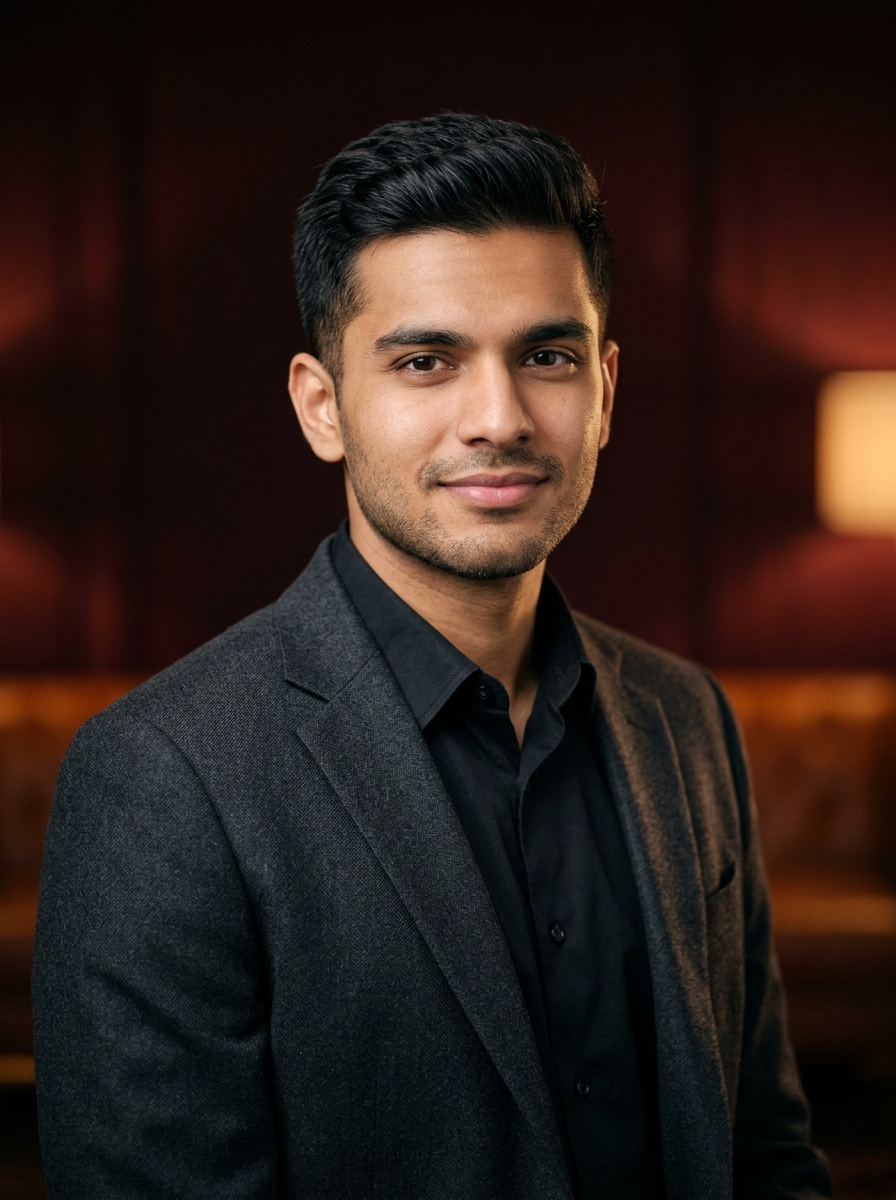
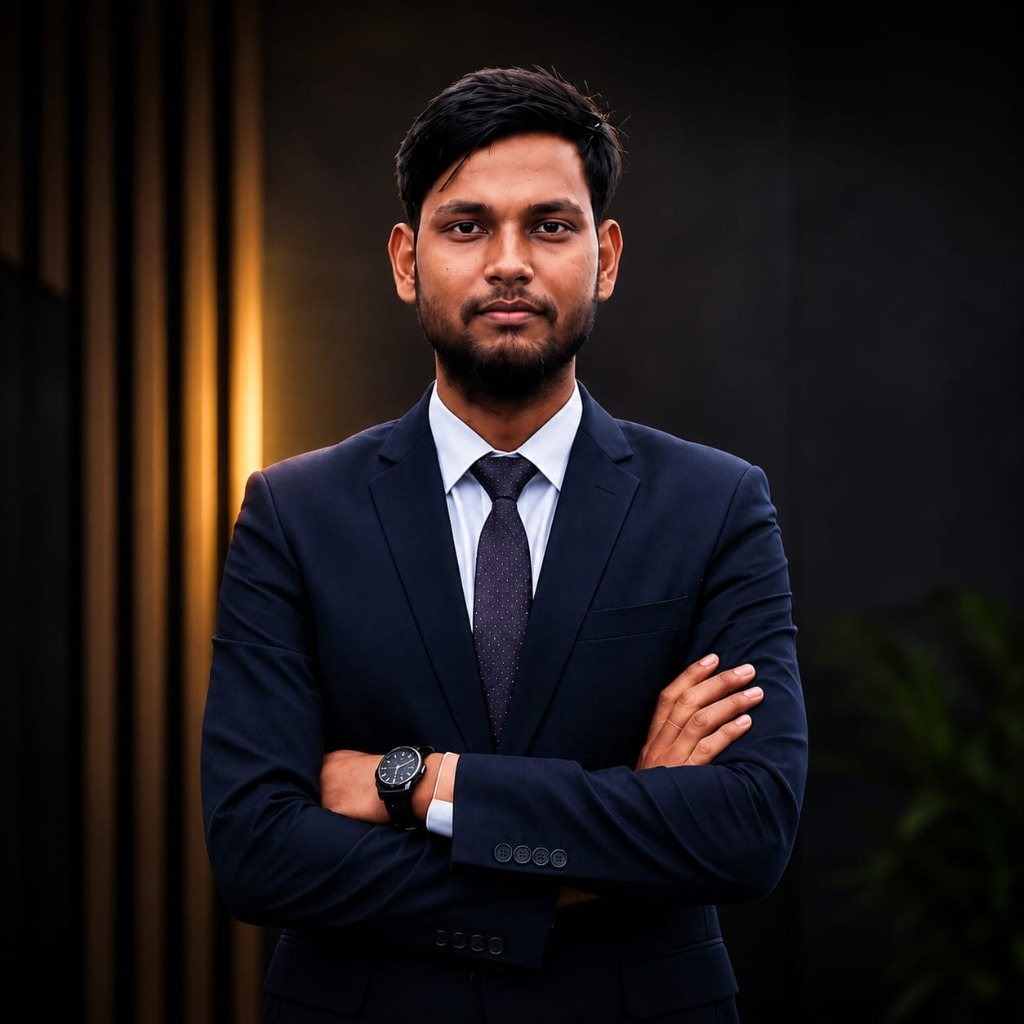
Update official developer portrait for Suraj Vishwakarma in Hero and About sections

diff --git a/src/components/sections/HeroSection.tsx b/src/components/sections/HeroSection.tsx
@@ -1,30 +1,70 @@
 "use client";
 
-import React, { useState } from "react";
+import React, { useState, useRef } from "react";
 import { siteConfig } from "@/lib/site-config";
 import { Button } from "../ui/Button";
 import { HeroScene } from "../three/HeroScene";
 import { ResumeModal } from "../ui/ResumeModal";
-import { ArrowDown, Sparkles, ArrowRight, Github, Linkedin, Download } from "lucide-react";
+import {
+  ArrowDown,
+  Sparkles,
+  ArrowRight,
+  Github,
+  Linkedin,
+  Download,
+  Code2,
+  Cpu,
+  MapPin,
+  Box,
+  User,
+} from "lucide-react";
 
 export function HeroSection() {
   const [resumeModalOpen, setResumeModalOpen] = useState(false);
-  const [heroVisualMode, setHeroVisualMode] = useState<"3d" | "portrait">("3d");
+  const [visualMode, setVisualMode] = useState<"portrait" | "3d">("portrait");
+  const cardRef = useRef<HTMLDivElement>(null);
+  const [tiltStyle, setTiltStyle] = useState({});
+
+  // 3D subtle tilt interaction on portrait
+  const handleMouseMove = (e: React.MouseEvent<HTMLDivElement>) => {
+    if (!cardRef.current || window.matchMedia("(prefers-reduced-motion: reduce)").matches)
+      return;
+    const rect = cardRef.current.getBoundingClientRect();
+    const x = e.clientX - rect.left;
+    const y = e.clientY - rect.top;
+    const centerX = rect.width / 2;
+    const centerY = rect.height / 2;
+
+    const rotateX = ((y - centerY) / centerY) * -6;
+    const rotateY = ((x - centerX) / centerX) * 6;
+
+    setTiltStyle({
+      transform: `perspective(1000px) rotateX(${rotateX.toFixed(2)}deg) rotateY(${rotateY.toFixed(2)}deg) scale3d(1.02, 1.02, 1.02)`,
+      transition: "transform 0.1s ease-out",
+    });
+  };
+
+  const handleMouseLeave = () => {
+    setTiltStyle({
+      transform: "perspective(1000px) rotateX(0deg) rotateY(0deg) scale3d(1, 1, 1)",
+      transition: "transform 0.5s ease-out",
+    });
+  };
 
   return (
     <section
       id="home"
-      className="relative min-h-screen flex items-center justify-center pt-32 pb-20 lg:pt-36 lg:pb-24 overflow-hidden"
+      className="relative min-h-screen flex items-center justify-center pt-36 sm:pt-40 lg:pt-44 pb-20 lg:pb-28 overflow-hidden"
     >
       <div className="max-w-7xl mx-auto px-4 sm:px-6 lg:px-8 w-full">
         <div className="grid grid-cols-1 lg:grid-cols-12 gap-12 lg:gap-8 items-center">
-          {/* Left Column: Narrative & Action */}
+          {/* Left Column: Narrative, Typography & CTAs */}
           <div className="lg:col-span-7 flex flex-col items-start z-10 text-left">
             {/* Availability Badge */}
-            <div className="inline-flex items-center gap-2.5 px-3.5 py-1.5 rounded-full bg-maroon-900/80 border border-gold-500/30 backdrop-blur-md mb-6 shadow-sm">
-              <span className="relative flex h-2 w-2">
+            <div className="inline-flex items-center gap-2.5 px-4 py-1.5 rounded-full bg-maroon-900/90 border border-gold-500/35 backdrop-blur-md mb-6 shadow-md shadow-maroon-950/60">
+              <span className="relative flex h-2.5 w-2.5">
                 <span className="animate-ping absolute inline-flex h-full w-full rounded-full bg-emerald-400 opacity-75" />
-                <span className="relative inline-flex rounded-full h-2 w-2 bg-emerald-500" />
+                <span className="relative inline-flex rounded-full h-2.5 w-2.5 bg-emerald-500" />
               </span>
               <span className="text-xs uppercase tracking-[0.2em] font-medium text-gold-300">
                 {siteConfig.availability}
@@ -62,7 +102,7 @@ export function HeroSection() {
                 variant="primary"
                 size="lg"
                 href="#projects"
-                className="group flex items-center gap-2"
+                className="group flex items-center gap-2 shadow-lg shadow-gold-500/20"
               >
                 <span>Explore My Work</span>
                 <ArrowRight className="w-4 h-4 transition-transform group-hover:translate-x-1" />
@@ -82,11 +122,39 @@ export function HeroSection() {
                 href="#contact"
                 className="inline-flex items-center gap-1.5 text-sm font-medium text-gold-400 hover:text-ivory-100 underline underline-offset-8 decoration-gold-500/40 hover:decoration-gold-400 transition-all px-2 py-1"
               >
-                Let&apos;s Connect
+                Let&apos;s Connect ✦
               </a>
             </div>
 
-            {/* Verified Quick Social Links */}
+            {/* Quick Metrics Bar */}
+            <div className="grid grid-cols-3 gap-3 w-full max-w-md p-3.5 rounded-2xl bg-maroon-900/50 border border-gold-500/20 backdrop-blur-sm mb-6">
+              <div className="text-center sm:text-left sm:pl-2">
+                <span className="block font-serif text-lg sm:text-xl text-gold-400 font-semibold">
+                  3+
+                </span>
+                <span className="text-[10px] font-mono uppercase tracking-wider text-ivory-300/70">
+                  Core Projects
+                </span>
+              </div>
+              <div className="text-center sm:text-left border-x border-gold-500/15 px-2">
+                <span className="block font-serif text-lg sm:text-xl text-gold-400 font-semibold">
+                  M.Sc. IT
+                </span>
+                <span className="text-[10px] font-mono uppercase tracking-wider text-ivory-300/70">
+                  Scholar
+                </span>
+              </div>
+              <div className="text-center sm:text-left sm:pl-2">
+                <span className="block font-serif text-lg sm:text-xl text-emerald-400 font-semibold">
+                  100%
+                </span>
+                <span className="text-[10px] font-mono uppercase tracking-wider text-ivory-300/70">
+                  Verified Work
+                </span>
+              </div>
+            </div>
+
+            {/* Channels */}
             <div className="flex items-center gap-4 pt-4 border-t border-gold-500/15 text-xs text-ivory-300/70">
               <span className="font-mono text-[11px] uppercase tracking-wider text-gold-500/80">
                 Channels:
@@ -115,62 +183,111 @@ export function HeroSection() {
             </div>
           </div>
 
-          {/* Right Column: 3D Interactive Sculpture or Studio Portrait */}
+          {/* Right Column: Masterpiece Showcase (Developer Portrait + 3D Mode) */}
           <div className="lg:col-span-5 relative flex flex-col items-center justify-center">
             {/* Ambient luxury glow backdrop */}
-            <div className="absolute w-72 h-72 sm:w-96 sm:h-96 rounded-full bg-maroon-700/25 blur-3xl pointer-events-none" />
+            <div className="absolute w-80 h-80 sm:w-96 sm:h-96 rounded-full bg-gradient-to-tr from-maroon-700/30 via-gold-500/15 to-maroon-900/40 blur-3xl pointer-events-none" />
 
-            {/* View Mode Pill Toggle */}
-            <div className="relative z-20 flex items-center gap-2 p-1 rounded-full bg-maroon-900/80 border border-gold-500/25 backdrop-blur-md mb-4 shadow-md">
+            {/* Interactive Mode Switcher */}
+            <div className="relative z-20 flex items-center gap-1.5 p-1 rounded-full bg-maroon-900/90 border border-gold-500/30 backdrop-blur-md mb-5 shadow-lg shadow-maroon-950/70">
               <button
                 type="button"
-                onClick={() => setHeroVisualMode("3d")}
-                className={`px-3.5 py-1 rounded-full text-xs font-mono tracking-wider transition-all duration-300 ${
-                  heroVisualMode === "3d"
-                    ? "bg-gradient-to-r from-gold-500 to-gold-600 text-maroon-950 font-semibold shadow-sm"
-                    : "text-ivory-300/80 hover:text-gold-300"
+                onClick={() => setVisualMode("portrait")}
+                className={`flex items-center gap-1.5 px-4 py-1.5 rounded-full text-xs font-mono tracking-wider transition-all duration-300 ${
+                  visualMode === "portrait"
+                    ? "bg-gradient-to-r from-gold-500 to-gold-600 text-maroon-950 font-bold shadow-md shadow-gold-500/25"
+                    : "text-ivory-300/80 hover:text-gold-300 hover:bg-maroon-800/40"
                 }`}
               >
-                ✦ 3D Sculpture
+                <User className="w-3.5 h-3.5" />
+                <span>Developer Portrait</span>
               </button>
               <button
                 type="button"
-                onClick={() => setHeroVisualMode("portrait")}
-                className={`px-3.5 py-1 rounded-full text-xs font-mono tracking-wider transition-all duration-300 ${
-                  heroVisualMode === "portrait"
-                    ? "bg-gradient-to-r from-gold-500 to-gold-600 text-maroon-950 font-semibold shadow-sm"
-                    : "text-ivory-300/80 hover:text-gold-300"
+                onClick={() => setVisualMode("3d")}
+                className={`flex items-center gap-1.5 px-4 py-1.5 rounded-full text-xs font-mono tracking-wider transition-all duration-300 ${
+                  visualMode === "3d"
+                    ? "bg-gradient-to-r from-gold-500 to-gold-600 text-maroon-950 font-bold shadow-md shadow-gold-500/25"
+                    : "text-ivory-300/80 hover:text-gold-300 hover:bg-maroon-800/40"
                 }`}
               >
-                ✦ Portrait
+                <Box className="w-3.5 h-3.5" />
+                <span>Interactive 3D</span>
               </button>
             </div>
 
-            <div className="relative w-full max-w-[500px] flex items-center justify-center">
-              {heroVisualMode === "3d" ? (
-                <HeroScene />
+            {/* Display Canvas or Portrait */}
+            <div className="relative w-full max-w-[460px] flex items-center justify-center">
+              {visualMode === "3d" ? (
+                <div className="w-full animate-in fade-in zoom-in-95 duration-500">
+                  <HeroScene />
+                </div>
               ) : (
-                <div className="relative w-full max-w-[380px] sm:max-w-[420px] rounded-3xl overflow-hidden border-2 border-gold-500/40 shadow-2xl shadow-maroon-950 group animate-in fade-in zoom-in-95 duration-500">
-                  <img
-                    src="/images/suraj-portrait.jpg"
-                    alt="Suraj Vishwakarma - Full Stack Developer"
-                    className="w-full h-[440px] sm:h-[480px] md:h-[520px] object-cover object-top transition-transform duration-700 group-hover:scale-105"
-                  />
-                  {/* Luxury bottom gradient & details badge */}
-                  <div className="absolute inset-0 bg-gradient-to-t from-maroon-950 via-maroon-950/20 to-transparent pointer-events-none" />
-                  
-                  <div className="absolute bottom-4 left-4 right-4 p-4 rounded-2xl bg-maroon-950/85 border border-gold-500/30 backdrop-blur-md">
-                    <div className="flex items-center justify-between mb-1">
-                      <p className="font-serif text-lg text-ivory-100 font-medium">
-                        Suraj Vishwakarma
-                      </p>
-                      <span className="text-[10px] font-mono px-2 py-0.5 rounded bg-gold-500/15 border border-gold-500/30 text-gold-400">
-                        Full Stack
-                      </span>
+                <div
+                  ref={cardRef}
+                  onMouseMove={handleMouseMove}
+                  onMouseLeave={handleMouseLeave}
+                  style={tiltStyle}
+                  className="group relative w-full max-w-[390px] sm:max-w-[420px] rounded-3xl p-3 bg-gradient-to-b from-maroon-850/80 via-maroon-900/70 to-maroon-950 border-2 border-gold-500/40 shadow-2xl shadow-maroon-950/80 transition-all duration-300 select-none animate-in fade-in zoom-in-95"
+                >
+                  {/* Outer Champagne Decorative Ring */}
+                  <div className="absolute -inset-1 rounded-[28px] border border-gold-500/20 pointer-events-none" />
+
+                  {/* Top Floating Glass Badge */}
+                  <div className="absolute top-6 left-6 z-20 flex items-center gap-2 px-3 py-1.5 rounded-xl bg-maroon-950/85 border border-gold-500/35 backdrop-blur-md shadow-lg">
+                    <Code2 className="w-3.5 h-3.5 text-gold-400" />
+                    <span className="text-[11px] font-mono text-ivory-200 font-medium">
+                      Full Stack Engineer
+                    </span>
+                  </div>
+
+                  {/* Top-Right AI Microservice Badge */}
+                  <div className="absolute top-6 right-6 z-20 flex items-center gap-1.5 px-3 py-1.5 rounded-xl bg-maroon-950/85 border border-gold-500/35 backdrop-blur-md shadow-lg">
+                    <Cpu className="w-3.5 h-3.5 text-gold-400" />
+                    <span className="text-[11px] font-mono text-gold-300 font-medium">
+                      AI & APIs
+                    </span>
+                  </div>
+
+                  {/* Main Portrait Image Container */}
+                  <div className="relative rounded-2xl overflow-hidden bg-maroon-950 border border-gold-500/20 aspect-[4/5] sm:aspect-[4/5.2]">
+                    <img
+                      src="/images/suraj-portrait.jpg"
+                      alt="Suraj Vishwakarma - Full Stack Developer"
+                      className="w-full h-full object-cover object-top transition-transform duration-700 group-hover:scale-105"
+                      loading="eager"
+                    />
+
+                    {/* Subtle Editorial Vignette */}
+                    <div className="absolute inset-0 bg-gradient-to-t from-maroon-950 via-maroon-950/15 to-transparent pointer-events-none" />
+
+                    {/* Floating Bottom Card Over Image */}
+                    <div className="absolute bottom-3 left-3 right-3 p-3.5 rounded-xl bg-maroon-950/90 border border-gold-500/35 backdrop-blur-md shadow-lg">
+                      <div className="flex items-center justify-between mb-1">
+                        <div>
+                          <p className="font-serif text-base sm:text-lg text-ivory-100 font-medium">
+                            Suraj Vishwakarma
+                          </p>
+                          <p className="text-[11px] text-gold-400 font-mono">
+                            M.Sc. IT Scholar • Abhinav College
+                          </p>
+                        </div>
+                        <span className="flex items-center gap-1.5 px-2.5 py-1 rounded-full bg-emerald-500/15 border border-emerald-400/30 text-[10px] font-mono text-emerald-300">
+                          <span className="w-1.5 h-1.5 rounded-full bg-emerald-400 animate-ping" />
+                          Online
+                        </span>
+                      </div>
+
+                      <div className="flex items-center justify-between pt-2 border-t border-gold-500/15 text-[11px] text-ivory-300/80 font-mono">
+                        <span className="flex items-center gap-1">
+                          <MapPin className="w-3 h-3 text-gold-400" />
+                          <span>Mumbai, IN</span>
+                        </span>
+                        <span className="text-gold-400/90">
+                          Next.js • Python • ML
+                        </span>
+                      </div>
                     </div>
-                    <p className="text-xs text-ivory-300/80 font-light">
-                      M.Sc. IT Scholar • Next.js & Python Architecture
-                    </p>
                   </div>
                 </div>
               )}
@@ -201,4 +318,3 @@ export function HeroSection() {
     </section>
   );
 }
-
